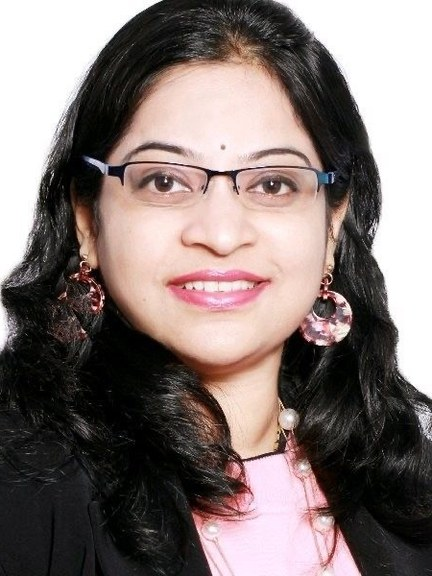
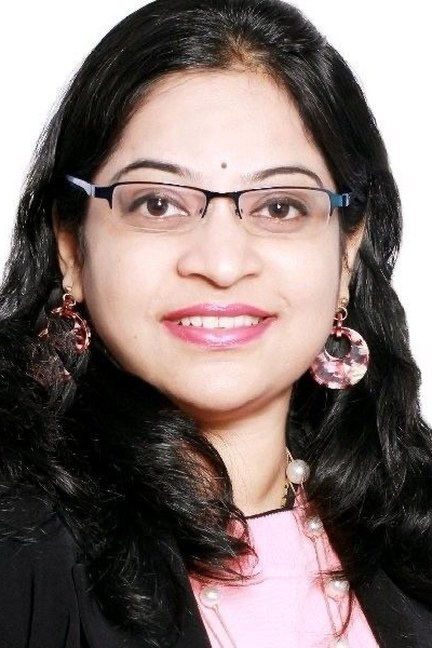
Taller team portraits showing more than the face
Claude-Session: https://claude.ai/code/session_013duUUYBarWAhfZq84nP5YF

diff --git a/team.html b/team.html
@@ -5,7 +5,7 @@
 <header><div class="wrap nav"><a class="logo" href="index.html"><svg width="32" height="32" viewBox="0 0 32 32" aria-hidden="true"><path d="M16 0c1.400 8 4.600 12.600 0 16C11.400 12.600 14.600 8 16 0z" fill="#2bb3b8"/><path d="M32 16c-8 1.400-12.600 4.600-16 0 3.400-4.600 8-1.400 16 0z" fill="#7a4fb8"/><path d="M16 32c-1.400-8-4.600-12.600 0-16 4.600 3.400 1.400 8 0 16z" fill="#2f5fa8"/><path d="M0 16c8-1.400 12.600-4.600 16 0-3.400 4.600-8 1.400-16 0z" fill="#3f8fd0"/><path fill="#fff" d="M16 10.500c.6 3.300 2.200 4.900 5.500 5.500-3.300.6-4.900 2.200-5.500 5.500-.6-3.300-2.200-4.900-5.500-5.500 3.300-.6 4.900-2.200 5.500-5.500z"/></svg><span class="wm" aria-label="HybridAI">Hybrid<svg class="lam" viewBox="0 0 14 15" aria-hidden="true"><path d="M1.500 14 7 1.500 12.500 14" fill="none" stroke="currentColor" stroke-width="2" stroke-linecap="round" stroke-linejoin="round"/></svg>I</span></a>
 <button class="menu" aria-label="Menu" aria-expanded="false">☰</button><nav aria-label="Main"><ul><li><a href="index.html">Home</a></li><li><a href="team.html" aria-current=page>Meet Our Team</a></li><li><a href="platform.html">Platform Overview</a></li><li><a href="careers.html">Careers</a></li><li class="mob"><a class="btn fill" href="contact.html#contact-form">Contact Us</a></li></ul></nav><a class="btn out" href="contact.html#contact-form">Contact Us</a></div></header>
 <main id="main"><section class="band"><div class="wrap"><h1 class="teamh">The <span class="grad">HybridAI</span> Team</h1><p>At the helm of our company is a dynamic leadership team committed to fostering growth, innovation, and excellence. With deep industry expertise and a shared passion for driving meaningful change, our leaders are dedicated to guiding our organization with vision, integrity, and strategic insight. Learn more about the individuals who inspire our direction and lead us toward a successful future.</p></div></section>
-<div class="wrap"><div class="team"><div class="card reveal"><img src="assets/rajesh.jpg" alt="Portrait of Rajesh Chainani" width="432" height="576" loading="lazy"><div><span>Rajesh Chainani<small>CPO and Co-Founder</small></span><span class="ph" title="LinkedIn URL to be supplied" aria-label="Rajesh Chainani LinkedIn (URL to be supplied)"><svg class="li-ico" viewBox="0 0 24 24" fill="currentColor" aria-hidden="true"><path d="M20.450 20.450h-3.560v-5.570c0-1.330-.03-3.040-1.850-3.040-1.860 0-2.140 1.450-2.140 2.940v5.670H9.350V9h3.410v1.560h.05c.48-.9 1.640-1.850 3.370-1.850 3.600 0 4.270 2.370 4.270 5.460v6.280zM5.340 7.430a2.060 2.060 0 1 1 0-4.120 2.060 2.060 0 0 1 0 4.120zM7.120 20.450H3.560V9h3.560v11.450z"/></svg></span></div></div><div class="card reveal"><img src="assets/ramesh.jpg" alt="Portrait of Ramesh Ramnath" width="432" height="576" loading="lazy"><div><span>Ramesh Ramnath<small>CDO, Co-Founder</small></span><span class="ph" title="LinkedIn URL to be supplied" aria-label="Ramesh Ramnath LinkedIn (URL to be supplied)"><svg class="li-ico" viewBox="0 0 24 24" fill="currentColor" aria-hidden="true"><path d="M20.450 20.450h-3.560v-5.570c0-1.330-.03-3.040-1.850-3.040-1.860 0-2.140 1.450-2.140 2.940v5.670H9.350V9h3.410v1.560h.05c.48-.9 1.640-1.850 3.370-1.850 3.600 0 4.270 2.370 4.270 5.460v6.280zM5.340 7.430a2.060 2.060 0 1 1 0-4.120 2.060 2.060 0 0 1 0 4.120zM7.120 20.450H3.560V9h3.560v11.450z"/></svg></span></div></div><div class="card reveal"><img src="assets/udaya.jpg" alt="Portrait of Udaya Kondameedi" width="432" height="576" loading="lazy"><div><span>Udaya Kondameedi</span><span class="ph" title="LinkedIn URL to be supplied" aria-label="Udaya Kondameedi LinkedIn (URL to be supplied)"><svg class="li-ico" viewBox="0 0 24 24" fill="currentColor" aria-hidden="true"><path d="M20.450 20.450h-3.560v-5.570c0-1.330-.03-3.040-1.850-3.040-1.860 0-2.140 1.450-2.140 2.940v5.670H9.350V9h3.410v1.560h.05c.48-.9 1.640-1.850 3.370-1.850 3.600 0 4.270 2.370 4.270 5.460v6.280zM5.340 7.430a2.060 2.060 0 1 1 0-4.120 2.060 2.060 0 0 1 0 4.120zM7.120 20.450H3.560V9h3.560v11.450z"/></svg></span></div></div></div></div><div class="stat"><b>100</b> years domain expertise<small class="tbc-note" style="display:block">Pending confirmation from HybridAI</small></div>
+<div class="wrap"><div class="team"><div class="card reveal"><img src="assets/rajesh.jpg" alt="Portrait of Rajesh Chainani" width="432" height="648" loading="lazy"><div><span>Rajesh Chainani<small>CPO and Co-Founder</small></span><span class="ph" title="LinkedIn URL to be supplied" aria-label="Rajesh Chainani LinkedIn (URL to be supplied)"><svg class="li-ico" viewBox="0 0 24 24" fill="currentColor" aria-hidden="true"><path d="M20.450 20.450h-3.560v-5.570c0-1.330-.03-3.040-1.850-3.040-1.860 0-2.140 1.450-2.140 2.940v5.670H9.350V9h3.410v1.560h.05c.48-.9 1.640-1.850 3.370-1.850 3.600 0 4.270 2.370 4.270 5.460v6.280zM5.340 7.430a2.060 2.060 0 1 1 0-4.120 2.060 2.060 0 0 1 0 4.120zM7.120 20.450H3.560V9h3.560v11.450z"/></svg></span></div></div><div class="card reveal"><img src="assets/ramesh.jpg" alt="Portrait of Ramesh Ramnath" width="432" height="648" loading="lazy"><div><span>Ramesh Ramnath<small>CDO, Co-Founder</small></span><span class="ph" title="LinkedIn URL to be supplied" aria-label="Ramesh Ramnath LinkedIn (URL to be supplied)"><svg class="li-ico" viewBox="0 0 24 24" fill="currentColor" aria-hidden="true"><path d="M20.450 20.450h-3.560v-5.570c0-1.330-.03-3.040-1.850-3.040-1.860 0-2.140 1.450-2.140 2.940v5.670H9.350V9h3.410v1.560h.05c.48-.9 1.640-1.850 3.370-1.850 3.600 0 4.270 2.370 4.270 5.460v6.280zM5.340 7.430a2.060 2.060 0 1 1 0-4.120 2.060 2.060 0 0 1 0 4.120zM7.120 20.450H3.560V9h3.560v11.450z"/></svg></span></div></div><div class="card reveal"><img src="assets/udaya.jpg" alt="Portrait of Udaya Kondameedi" width="432" height="648" loading="lazy"><div><span>Udaya Kondameedi</span><span class="ph" title="LinkedIn URL to be supplied" aria-label="Udaya Kondameedi LinkedIn (URL to be supplied)"><svg class="li-ico" viewBox="0 0 24 24" fill="currentColor" aria-hidden="true"><path d="M20.450 20.450h-3.560v-5.570c0-1.330-.03-3.040-1.850-3.040-1.860 0-2.140 1.450-2.140 2.940v5.670H9.350V9h3.410v1.560h.05c.48-.9 1.640-1.850 3.370-1.850 3.600 0 4.270 2.370 4.270 5.460v6.280zM5.340 7.430a2.060 2.060 0 1 1 0-4.120 2.060 2.060 0 0 1 0 4.120zM7.120 20.450H3.560V9h3.560v11.450z"/></svg></span></div></div></div></div><div class="stat"><b>100</b> years domain expertise<small class="tbc-note" style="display:block">Pending confirmation from HybridAI</small></div>
 <p class="tbc-note" style="text-align:center;margin-top:16px">Team LinkedIn links: URL to be supplied.</p>
 <div class="wrap"><section class="s"><h2 style="font-weight:500">Wish To Join Our Team?</h2><a class="btn fill" href="careers.html">View Vacancies</a></section></div></main>
 <footer><div class="wrap"><div class="fgrid"><div><a class="logo" href="index.html"><svg width="32" height="32" viewBox="0 0 32 32" aria-hidden="true"><path d="M16 0c1.400 8 4.600 12.600 0 16C11.400 12.600 14.600 8 16 0z" fill="#2bb3b8"/><path d="M32 16c-8 1.400-12.600 4.600-16 0 3.400-4.600 8-1.400 16 0z" fill="#7a4fb8"/><path d="M16 32c-1.400-8-4.600-12.600 0-16 4.600 3.400 1.400 8 0 16z" fill="#2f5fa8"/><path d="M0 16c8-1.400 12.600-4.600 16 0-3.400 4.600-8 1.400-16 0z" fill="#3f8fd0"/><path fill="#fff" d="M16 10.500c.6 3.300 2.200 4.900 5.500 5.500-3.300.6-4.900 2.200-5.500 5.500-.6-3.300-2.200-4.900-5.500-5.500 3.300-.6 4.900-2.200 5.500-5.500z"/></svg><span class="wm" aria-label="HybridAI">Hybrid<svg class="lam" viewBox="0 0 14 15" aria-hidden="true"><path d="M1.500 14 7 1.500 12.500 14" fill="none" stroke="currentColor" stroke-width="2" stroke-linecap="round" stroke-linejoin="round"/></svg>I</span></a><p>HybridAI is a cutting-edge SaaS and on-premise platform designed to revolutionize how companies manage and optimize their IT and AI infrastructure resources through the datacenter lifecycle.</p>

diff --git a/assets/style.css b/assets/style.css
@@ -77,5 +77,5 @@ footer a:hover{color:var(--teal)}footer p{color:var(--muted)}
 @media(max-width:800px){body{font-size:16px}.feat p,.perk,footer{font-size:16px}.panel>svg{width:110px;height:110px}}
 /* team cards: label sits below the photo so it never covers a face */
 .card{aspect-ratio:auto;background:var(--soft);border:1px solid var(--line);display:flex;flex-direction:column}
-.card img{aspect-ratio:3/4;height:auto}
+.card img{aspect-ratio:2/3;height:auto}
 .card div{position:static;border-radius:0;background:var(--soft);padding:10px 12px}

diff --git a/build.py b/build.py
@@ -108,7 +108,7 @@ def li(n):
     return f'<span class="ph" title="LinkedIn URL to be supplied" aria-label="{n} LinkedIn (URL to be supplied)">{ico("in","li-ico")}</span>'
 def card(n,r,img):
     role=f"<small>{r}</small>" if r else ""
-    return f'<div class="card reveal"><img src="assets/{img}.jpg" alt="Portrait of {n}" width="432" height="576" loading="lazy"><div><span>{n}{role}</span>{li(n)}</div></div>'
+    return f'<div class="card reveal"><img src="assets/{img}.jpg" alt="Portrait of {n}" width="432" height="648" loading="lazy"><div><span>{n}{role}</span>{li(n)}</div></div>'
 team=f'''<section class="band"><div class="wrap"><h1 class="teamh">The <span class="grad">HybridAI</span> Team</h1><p>At the helm of our company is a dynamic leadership team committed to fostering growth, innovation, and excellence. With deep industry expertise and a shared passion for driving meaningful change, our leaders are dedicated to guiding our organization with vision, integrity, and strategic insight. Learn more about the individuals who inspire our direction and lead us toward a successful future.</p></div></section>
 <div class="wrap"><div class="team">{"".join(card(*t) for t in TEAM)}</div></div><div class="stat"><b>100</b> years domain expertise<small class="tbc-note" style="display:block">Pending confirmation from HybridAI</small></div>
 <p class="tbc-note" style="text-align:center;margin-top:16px">Team LinkedIn links: URL to be supplied.</p>
